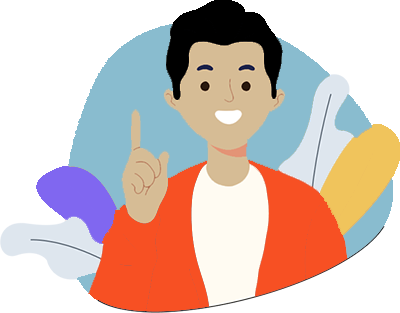
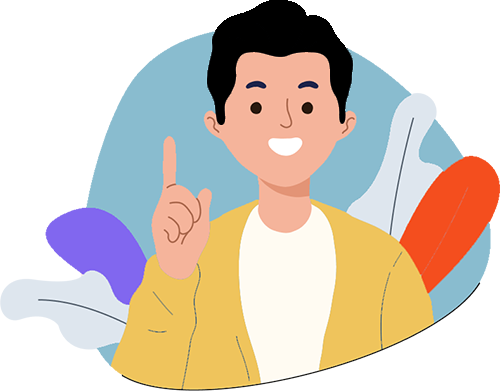
updated

diff --git a/css/print.css b/css/print.css
@@ -42,16 +42,16 @@ button.owl-dot.active::before{opacity: 1;}
 /* .animated{-webkit-animation-duration:1000 ms; animation-duration:1000 ms; -webkit-animation-fill-mode : both  ; animation-fill-mode : both  ;}   */
 /* / .owl-animated-out - only for current item /  
 / This is very important class. Use z-index if you want move Out item above In item / */
-/* .owl-animated-out {z-index:1} */ */
+/* .owl-animated-out {z-index:1} */
 
 .headernav{position: fixed; left: 0; right: 0; top: 0px; z-index: 1; backdrop-filter: blur(20px); padding: 10px 0; background: #00000090;}
 .headernav .container{display: flex; flex-wrap: wrap; justify-content: space-between; align-items: center; font-size: 0;}
-.headernav .logo a{font-size:28px; font-weight:400; color:#fff; display: block; line-height: 33px;}
-.headernav .logo a img{margin-right: 5px;}
-.headernav .logo a span{color: #f75023;}
+.headernav .logo a{ display: flex; gap: 5px; align-items: center;}
+.headernav .logo a span{font-size:28px; font-weight:600; color:#fff;}
+.headernav .logo a span:nth-child(2){color: #f75023;}
 .headernav .topnav{display: flex; flex-wrap: wrap; gap: 50px; align-items: center;}
 .headernav .topnav ul{display: flex; flex-wrap: wrap; gap: 50px;}
-.headernav .topnav ul li a{font-size: 18px; font-weight: 400; color: #fff; position: relative;}
+.headernav .topnav ul li a{font-size: 18px; font-weight: 400; color: #fff; position: relative; line-height: 20px; display: block; letter-spacing: .5px;}
 .headernav .topnav ul li a::before{content:""; position: absolute; background: #f75023; width: 100%; height: 2px; bottom: 0; left: 0; transform-origin: 50% 0; transition: .5s; transform: scaleX(0);}
 .headernav .topnav ul li a:hover::before{transform: scaleX(1);}
 .headernav .topnav .download-btn a{font-size: 18px; font-weight: 400; color: #fff; display: inline-block; padding: 10px 20px; box-sizing: border-box; border: 2px solid #f75023; border-radius: 30px; position: relative; z-index: 1; overflow: hidden; line-height: 20px;}
@@ -79,9 +79,11 @@ button.owl-dot.active::before{opacity: 1;}
 .bannersec .bannertxt .details .socialicon ul li a.ig{background-position: -61px 0;}
 .bannersec .avatarsec{width: 48%; text-align: center;}
 .bannersec .avatarsec .img{display: inline-block; position: relative;}
-.bannersec .avatarsec span.html img{width:50px; height:50px; padding:5px; border-radius:10px; background:#fff; position:absolute; top:0; right:0; animation: move 1.5s linear infinite alternate; }
-.bannersec .avatarsec span.photoshop img{width: 60px; height: 60px; position: absolute; left: 0; top: 28%; transform: translateY(-50%); animation: move 1.5s linear infinite alternate;}
-.bannersec .avatarsec span.css img{width:50px; height:50px; background:#fff; border-radius:10px; padding:5px; position:absolute; bottom:5%; left: 70%; transform: translateX(-50%); animation: move 1.5s linear infinite alternate;}
+.bannersec .avatarsec span.html img{width:50px; height:50px; padding:5px; border-radius:10px; background:#fff; position:absolute; top:0; right:5%; animation: move 1.5s linear infinite alternate; }
+.bannersec .avatarsec span.photoshop img{width: 50px; height: 50px; background:#fff; border-radius:10px; padding:5px; position: absolute; left: 5%; top: 15%; transform: translateY(-50%); animation: move 1.5s linear infinite alternate;}
+.bannersec .avatarsec span.css img{width:50px; height:50px; background:#fff; border-radius:10px; padding:5px; position:absolute; bottom:5%; right:0%; transform: translateX(-50%); animation: move 1.5s linear infinite alternate;}
+.bannersec .avatarsec span.git img{width:50px; height:50px; position:absolute; background:#fff; border-radius:10px; padding:5px; bottom:5%; left:0%; transform: translateX(-50%); animation: move 1.5s linear infinite alternate;}
+
 
 @keyframes move{
     0%{transform: translateY(0px);

diff --git a/index.html b/index.html
@@ -21,7 +21,7 @@
     <div class="headernav">
         <div class="container">
             <div class="logo">
-                <a href="#"><img src="images/logo-1.png" alt="Logo" />Port<span>folio</span></a>
+                <a href="#"><img src="images/logo.png" alt="Logo" /><span>Port<span>folio</span></span></a>
             </div>
             <div class="topnav">
                 <ul class="reset">
@@ -58,7 +58,7 @@
             </div>
             <div class="avatarsec">
                 <div class="img">
-                    <img src="images/avatar-img-2.png" alt="Avatar-Img"  >
+                    <img src="images/avatar-img.png" alt="Avatar-Img"  >
                     <span class="html"> 
                         <img src="images/html.svg" alt="illustrator Svg" width="50" height="50">
                     </span>
@@ -67,6 +67,9 @@
                     </span>
                     <span class="css">
                         <img src="images/css.svg" alt="Figma Svg" width="50" height="50">
+                    </span>
+                    <span class="git">
+                        <img src="images/git.svg" alt="Figma Svg" width="50" height="50">
                     </span>
                 </div>
             </div>
@@ -107,7 +110,7 @@
             <div class="container">
                 <div class="aboutimg">
                     <div class="img">
-                        <img src="images/about-img-1.jpg" alt="About-Img">
+                        <img src="images/about-img.jpg" alt="About-Img">
                     </div>
                     <div class="experience">
                         <h3>18</h3>
